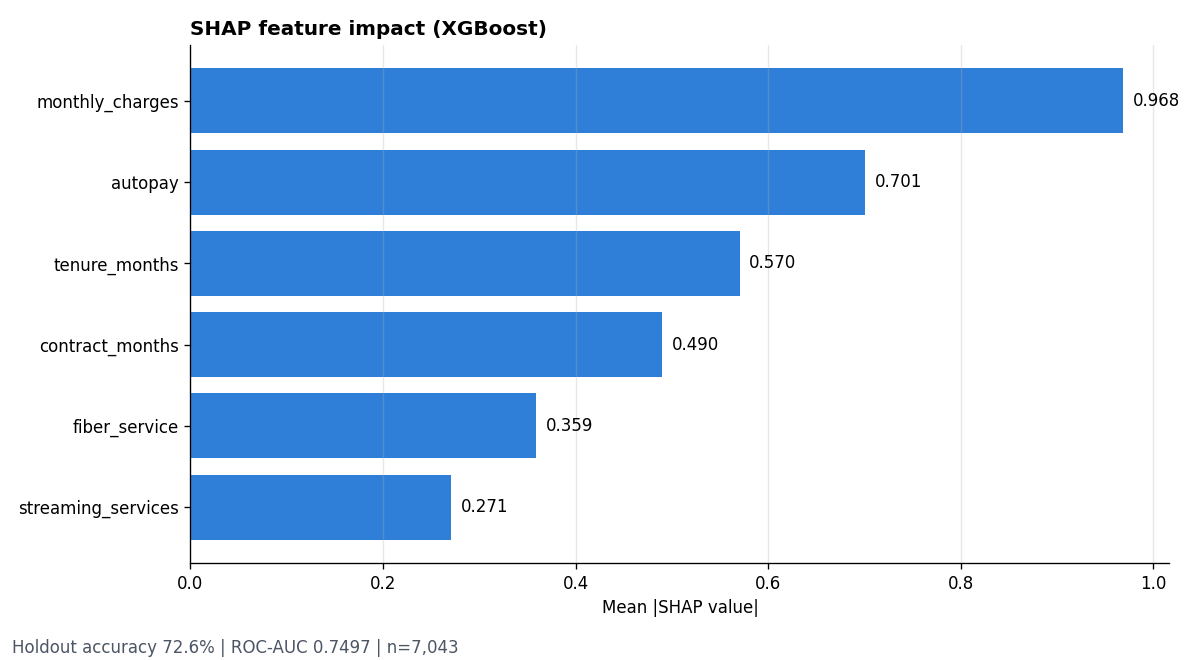
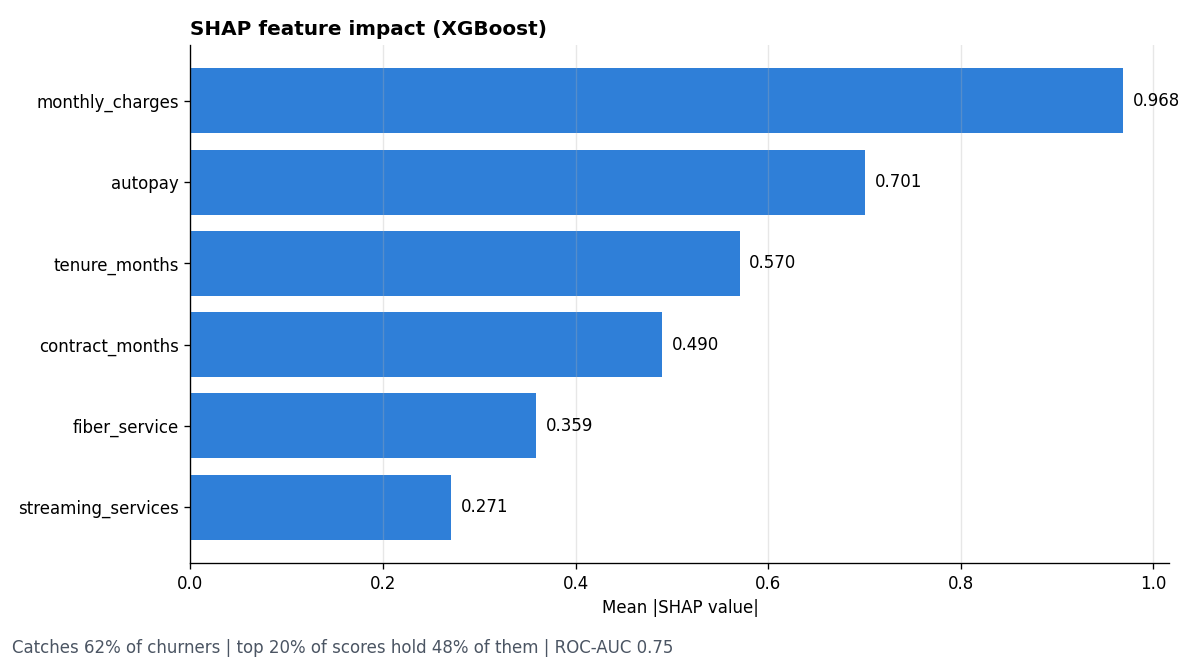
Add charts for rates, segments, and target attainment

Changed region(s): [[0.0, 0.9697, 0.555, 1.0]]

diff --git a/make_charts.py b/make_charts.py
@@ -25,7 +25,7 @@ def main(output_dir: Path = Path("outputs"), docs_dir: Path = Path("docs")) -> N
     ax.grid(axis="x", alpha=0.3)
     fig.text(
         0.01, 0.01,
-        f"Holdout accuracy {metrics['test_accuracy']:.1%} | ROC-AUC {metrics['test_roc_auc']:.4f} | n={metrics['rows']:,}",
+        f"Catches {metrics['test_recall']:.0%} of churners | top 20% of scores hold {metrics['top20_churners_captured']:.0%} of them | ROC-AUC {metrics['test_roc_auc']:.2f}",
         color="#4b5563",
     )
     fig.tight_layout(rect=(0, 0.04, 1, 1))
@@ -33,5 +33,74 @@ def main(output_dir: Path = Path("outputs"), docs_dir: Path = Path("docs")) -> N
     print(f"Wrote {docs_dir / 'shap_feature_impact.png'}")
 
 
+INK, MUTED, GRID, SURFACE = "#1f2328", "#6b7280", "#e5e7eb", "#fcfcfb"
+BLUE, BLUE_RAMP = "#2a78d6", ["#cde2fb", "#86b6ef", "#3987e5", "#1c5cab"]
+
+
+def style(ax) -> None:
+    ax.set_facecolor(SURFACE)
+    ax.spines[["top", "right"]].set_visible(False)
+    ax.spines[["left", "bottom"]].set_color(GRID)
+    ax.tick_params(colors=MUTED)
+
+
+def gains_chart(output_dir: Path, docs_dir: Path) -> None:
+    """Cumulative gains: share of churners reached when contacting the top X% of risk scores."""
+    scores = pd.read_csv(output_dir / "holdout_scores.csv").sort_values("score", ascending=False)
+    reached = scores["churned"].cumsum().to_numpy() / scores["churned"].sum()
+    contacted = (pd.RangeIndex(1, len(scores) + 1) / len(scores)).to_numpy()
+    top20 = reached[int(len(scores) * 0.2) - 1]
+
+    fig, ax = plt.subplots(figsize=(10, 6), facecolor=SURFACE)
+    style(ax)
+    ax.plot([0, 100], [0, 100], linestyle="--", color=MUTED, linewidth=1.5, label="Random order")
+    ax.plot(contacted * 100, reached * 100, color=BLUE, linewidth=2.5, label="Model risk score")
+    ax.scatter([20], [top20 * 100], s=70, color=BLUE, edgecolor=SURFACE, linewidth=2, zorder=3)
+    ax.annotate(f"Top 20% of scores\nreach {top20:.0%} of churners", (20, top20 * 100), xytext=(3, top20 * 100 + 18),
+                color=INK, fontsize=11, arrowprops={"arrowstyle": "-", "color": MUTED})
+    ax.set_xlim(0, 100); ax.set_ylim(0, 100)
+    ax.set_xlabel("Customers contacted, highest risk first (%)", color=INK)
+    ax.set_ylabel("Churners reached (%)", color=INK)
+    ax.set_title("Cumulative gains on the 1,409-customer holdout", loc="left", fontweight="bold", color=INK)
+    ax.grid(alpha=0.6, color=GRID)
+    ax.legend(frameon=False, loc="lower right")
+    fig.tight_layout()
+    fig.savefig(docs_dir / "gains_curve.png", dpi=200)
+
+
+def confusion_chart(output_dir: Path, docs_dir: Path) -> None:
+    """Confusion matrix at the default 0.5 threshold."""
+    scores = pd.read_csv(output_dir / "holdout_scores.csv")
+    pred = scores["score"] >= 0.5
+    actual = scores["churned"] == 1
+    cells = [[int((~actual & ~pred).sum()), int((~actual & pred).sum())],
+             [int((actual & ~pred).sum()), int((actual & pred).sum())]]
+    total = sum(map(sum, cells))
+
+    fig, ax = plt.subplots(figsize=(7.5, 6), facecolor=SURFACE)
+    ax.set_facecolor(SURFACE)
+    peak = max(map(max, cells))
+    for r in range(2):
+        for c in range(2):
+            v = cells[r][c]
+            shade = BLUE_RAMP[min(3, int(v / peak * 3.999))]
+            ax.add_patch(plt.Rectangle((c + 0.02, 1 - r + 0.02), 0.96, 0.96, color=shade))
+            ink = "white" if shade in ("#3987e5", "#1c5cab") else INK
+            ax.text(c + 0.5, 1.5 - r + 0.07, f"{v:,}", ha="center", va="center", fontsize=22, fontweight="bold", color=ink)
+            ax.text(c + 0.5, 1.5 - r - 0.15, f"{v / total:.1%} of customers", ha="center", va="center", fontsize=10, color=ink)
+    ax.set_xlim(0, 2); ax.set_ylim(0, 2)
+    ax.set_xticks([0.5, 1.5], ["Predicted: stays", "Predicted: churns"], color=INK)
+    ax.set_yticks([1.5, 0.5], ["Actually stayed", "Actually churned"], color=INK)
+    ax.tick_params(length=0)
+    for side in ax.spines.values():
+        side.set_visible(False)
+    ax.set_title("Holdout confusion matrix (threshold 0.5)", loc="left", fontweight="bold", color=INK)
+    fig.tight_layout()
+    fig.savefig(docs_dir / "confusion_matrix.png", dpi=200)
+
+
 if __name__ == "__main__":
     main()
+    gains_chart(Path("outputs"), Path("docs"))
+    confusion_chart(Path("outputs"), Path("docs"))
+    print("Wrote docs/gains_curve.png and docs/confusion_matrix.png")

diff --git a/train.py b/train.py
@@ -16,7 +16,7 @@ def train(data_path: Path, output_dir: Path, seed: int = 42) -> dict[str, float 
     import shap
     from imblearn.over_sampling import SMOTE
     from imblearn.pipeline import Pipeline
-    from sklearn.metrics import accuracy_score, roc_auc_score
+    from sklearn.metrics import accuracy_score, precision_score, recall_score, roc_auc_score
     from sklearn.model_selection import RandomizedSearchCV, train_test_split
     from xgboost import XGBClassifier
 
@@ -75,7 +75,21 @@ def train(data_path: Path, output_dir: Path, seed: int = 42) -> dict[str, float 
         "cv_roc_auc": round(float(search.best_score_), 4),
         "test_accuracy": round(float(accuracy_score(y_test, predictions)), 4),
         "test_roc_auc": round(float(roc_auc_score(y_test, probabilities)), 4),
+        "test_recall": round(float(recall_score(y_test, predictions)), 4),
+        "test_precision": round(float(precision_score(y_test, predictions)), 4),
+        "baseline_churn_rate": round(float(y_test.mean()), 4),
     }
+    # Retention teams work a ranked list, not a 0/1 label: how many of the actual
+    # churners fall in the top 20% of scores, and how that compares to random.
+    ranked = y_test.to_numpy()[np.argsort(-probabilities)]
+    top = ranked[: int(len(ranked) * 0.2)]
+    metrics["top20_churners_captured"] = round(float(top.sum() / ranked.sum()), 4)
+    metrics["top20_lift"] = round(float(top.mean() / ranked.mean()), 2)
+    # Per-customer holdout scores, used by make_charts.py for the gains curve and confusion matrix.
+    output_dir.mkdir(parents=True, exist_ok=True)
+    pd.DataFrame({"churned": y_test.to_numpy(), "score": probabilities.round(6)}).to_csv(
+        output_dir / "holdout_scores.csv", index=False
+    )
     output_dir.mkdir(parents=True, exist_ok=True)
     sample = x_test.sample(n=min(200, len(x_test)), random_state=seed)
     explainer = shap.TreeExplainer(search.best_estimator_.named_steps["model"])

diff --git a/README.md b/README.md
@@ -2,20 +2,30 @@
 
 XGBoost model that predicts which telecom customers will cancel, with SMOTE for class imbalance and SHAP to explain the predictions.
 
+📝 Write-up on Medium: [Predicting Customer Churn Without Fooling Yourself](https://medium.com/@bhargavpeddi/predicting-customer-churn-without-fooling-yourself-smote-xgboost-and-shap-0f65369e73d6)
+
 ![SHAP feature impact](docs/shap_feature_impact.png)
 
 ## Results
 
-Seed 42, 7,043 customers, stratified 80/20 split.
+Seed 42, 7,043 customers, stratified 80/20 split, 16.1% of customers churn.
 
 | Metric | Value |
 | --- | --- |
-| Cross-validation ROC-AUC (train) | 0.7523 |
+| Churners caught (recall) | 61.7% |
+| Churners in the top 20% of risk scores | 47.6% (2.4x lift over random) |
 | Holdout ROC-AUC | 0.7497 |
-| Holdout accuracy | 72.6% |
-| Train / holdout rows | 5,634 / 1,409 |
+| Cross-validation ROC-AUC (train) | 0.7523 |
+| Precision at 0.5 threshold | 31.9% |
+| Accuracy | 72.6% |
 
-CV and holdout scores are within 0.003 of each other, so the model is not overfitting the training folds. Monthly charges, autopay, and tenure have the largest SHAP impact.
+Recall and top-20% capture are the numbers that matter for retention: a team calling the 20% highest-risk customers reaches almost half of everyone who would churn. Accuracy is a poor metric here, because predicting "nobody churns" already scores 83.9%; SMOTE deliberately trades some accuracy for catching more churners. CV and holdout ROC-AUC are within 0.003 of each other, so the model is not overfitting.
+
+Monthly charges, autopay, and tenure have the largest SHAP impact.
+
+| Cumulative gains | Confusion matrix (threshold 0.5) |
+| --- | --- |
+| ![Cumulative gains](docs/gains_curve.png) | ![Confusion matrix](docs/confusion_matrix.png) |
 
 ## Data
 
@@ -36,8 +46,8 @@ Python 3.9+. On macOS, XGBoost needs OpenMP: `brew install libomp`.
 python3 -m venv .venv && source .venv/bin/activate
 pip install -r requirements.txt
 python generate_data.py
-python train.py            # writes outputs/metrics.json and outputs/feature_impact.csv
-python make_charts.py      # writes docs/shap_feature_impact.png (needs matplotlib)
+python train.py            # writes outputs/metrics.json (incl. recall, lift) and outputs/feature_impact.csv
+python make_charts.py      # writes the charts in docs/ (needs matplotlib)
 python -m unittest -v
 ```
 
